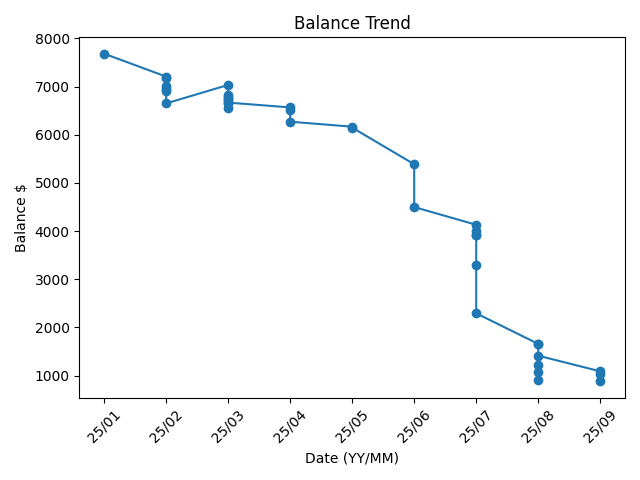
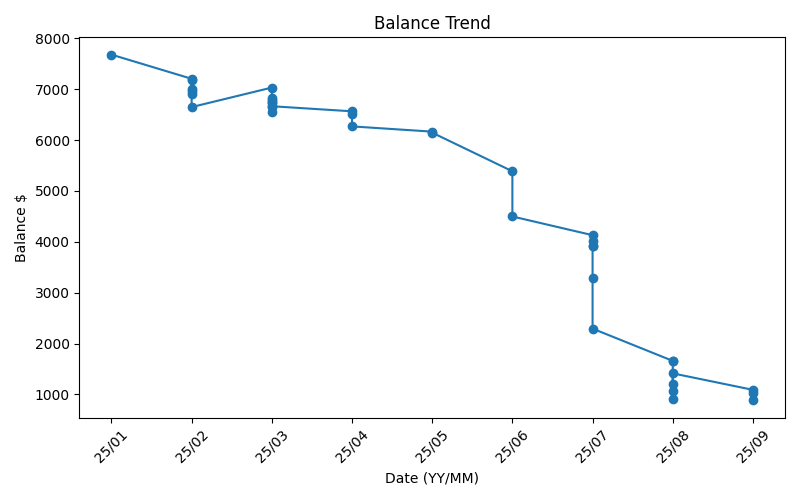
fix generate_charts functions

Changed region(s): [[0.0, 0.0312, 1.0, 0.9688], [0.4062, 0.1875, 0.5625, 0.2812], [0.7188, 0.875, 0.75, 0.9375]]

diff --git a/generate_charts.py b/generate_charts.py
@@ -5,6 +5,8 @@ from matplotlib.patches import Patch
 
 
 def category_summary_chart(categories_dict):
+    plt.figure(figsize=(8,5))  
+    plt.clf()  
     categories = list(str(c.name) for c in categories_dict.keys())
     values = list(categories_dict.values())
     colors = ['red' if v < 0 else 'blue' for v in values]
@@ -18,9 +20,12 @@ def category_summary_chart(categories_dict):
         plt.text(i, val + (50 if val >= 0 else -50), f"${val:.2f}", ha='center', va='bottom' if val >= 0 else 'top')
     plt.tight_layout()
     plt.savefig("category_summary.png")
+    plt.close() 
 
 
 def balance_trend_chart(dates, balances):
+    plt.figure(figsize=(8,5))  
+    plt.clf()  
     dates = [d.strftime("%y/%m") for d in dates]
     plt.plot(dates, balances, marker='o')
     plt.xlabel("Date (YY/MM)")
@@ -29,14 +34,16 @@ def balance_trend_chart(dates, balances):
     plt.xticks(rotation=45)
     plt.tight_layout()
     plt.savefig("balance_trend.png")
+    plt.close() 
 
 
 def monthly_cashflow_chart(monthly_cashflow_dict):
+    plt.figure(figsize=(8,5))  
+    plt.clf()  
     months = list(m[-2:]+ " " + m[:3] for m in monthly_cashflow_dict.keys())
     inflow = [v["inFlow"] for v in monthly_cashflow_dict.values()]
     outflow = [v["outFlow"] for v in monthly_cashflow_dict.values()]
     net = [v["net"] for v in monthly_cashflow_dict.values()]
-
     x = np.arange(len(months))
     width = 0.25
     # plot groups bars
@@ -52,9 +59,12 @@ def monthly_cashflow_chart(monthly_cashflow_dict):
     # Save chart:
     plt.tight_layout()
     plt.savefig("monthly_cashflow.png")
+    plt.close() 
 
 
 def top_expenses_chart(expenses_list_dict):
+    plt.figure(figsize=(8,5))  
+    plt.clf()  
     dates = [e["date"] for e in expenses_list_dict]
     cats = [e["category"] for e in expenses_list_dict]
     subcats = [e["subcategory"] for e in expenses_list_dict]
@@ -65,7 +75,6 @@ def top_expenses_chart(expenses_list_dict):
     color_map = {cat: cmap(i) for i, cat in enumerate(unique_categories)}
     colors = [color_map[cat] for cat in cats]
     # Horizontal bar chart
-    plt.figure(figsize=(8,5))
     labels = [f"{d} ({s})" for d, s in zip(dates, subcats)]
     bars = plt.barh(labels, amounts, color=colors)
     plt.xlabel("Amount ($)")
@@ -82,4 +91,5 @@ def top_expenses_chart(expenses_list_dict):
     # Save chart
     plt.tight_layout()
     plt.savefig("top_expenses.png")
+    plt.close() 
 

diff --git a/main.py b/main.py
@@ -12,17 +12,17 @@ print(f"Initial Balance: {format_amount(init_balance)}")
 print(f"Final Balance: {format_amount(fin_balance)}")
 print("")
 
-# categories_dict = summarize_by_category(transactions)
-# category_summary_chart(categories_dict)
-# print("")
+categories_dict = summarize_by_category(transactions)
+category_summary_chart(categories_dict)
+print("")
 
-# dates, balances = get_balance_trend(transactions)
-# balance_trend_chart(dates, balances)
-# print("")
+dates, balances = get_balance_trend(transactions)
+balance_trend_chart(dates, balances)
+print("")
 
-# monthly_cashflow_dict = summarize_by_month(transactions)
-# monthly_cashflow_chart(monthly_cashflow_dict)
-# print("")
+monthly_cashflow_dict = summarize_by_month(transactions)
+monthly_cashflow_chart(monthly_cashflow_dict)
+print("")
 
 top_expenses = get_top_expenses(transactions, 5)
 top_expenses_chart(top_expenses)
